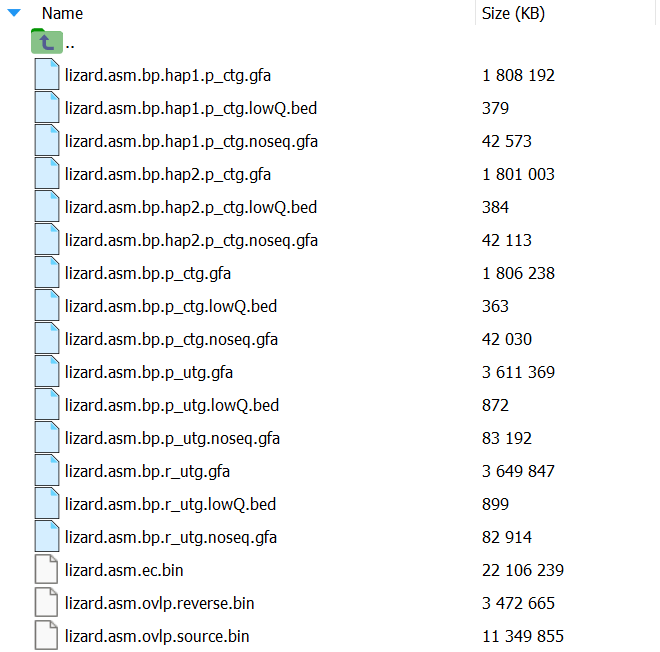
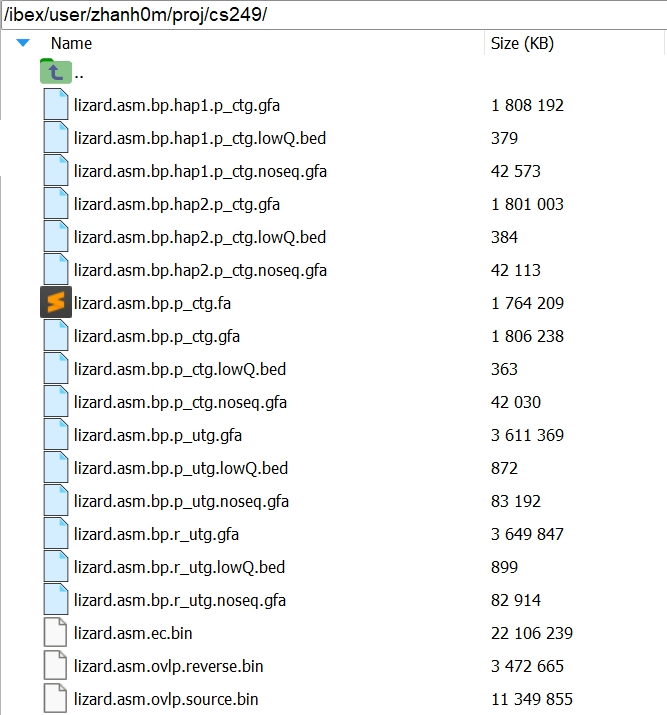
normal updates

diff --git a/assign2/README.md b/assign2/README.md
@@ -1,5 +1,8 @@
 # Assignment 2
 
+
+In this task, we used personal laptop to execute our works.
+
 ## Task 1
 
 We check if the installation of QUAST is successful 
@@ -467,13 +470,15 @@ All command lines of Task 1 is attached in the `assign2/exec` folder, see
 
 In this task, we used IBEX to execute our works.
 
+### Task 2.1
+
 Firstly, we go to our own project location:
 
 ```shell
 cd /ibex/user/zhanh0m/proj/cs249/
 ```
 
-Here we use Hifiasm to assemble the *Scincus mitranus* genome. 
+Here we use `Hifiasm` to assemble the *Scincus mitranus* genome. 
 The sbatch script is shown below (named `step_1.slurm` in our project location, also is attached
 [here](https://github.com/HaolingZHANG/CS-249/blob/main/assign2/exec/step_1.slurm)):
 
@@ -502,13 +507,24 @@ Notably, we used the computational resource parameters recommended by ChatGPT fo
 i.e., `32` cpus and `120G` memory.
 
 We run it by the following command line:
+
 ```shell
 sbatch step_1.slurm
 ```
 
 The execution log is attached 
-[here](https://github.com/HaolingZHANG/CS-249/tree/main/assign2/results/log/step_1.txt) 
-and the screenshot of the assembly results is shown below:
+[here](https://github.com/HaolingZHANG/CS-249/tree/main/assign2/results/log/step_1.txt).
+
+Since Hifiasm did not produce a FASTA file, we manually converted the output using the following command line:
+
+```shell
+awk '/^S/{print ">"$2"\n"$3}' lizard.asm.bp.p_ctg.gfa > lizard.asm.bp.p_ctg.fa
+```
+
+Finally, the assembly results are shown below:
 
 ![Pikachu](https://github.com/HaolingZHANG/CS-249/blob/main/assign2/results/images/assembly_screenshot.png)
 
+### Task 2.2
+
+TODO
